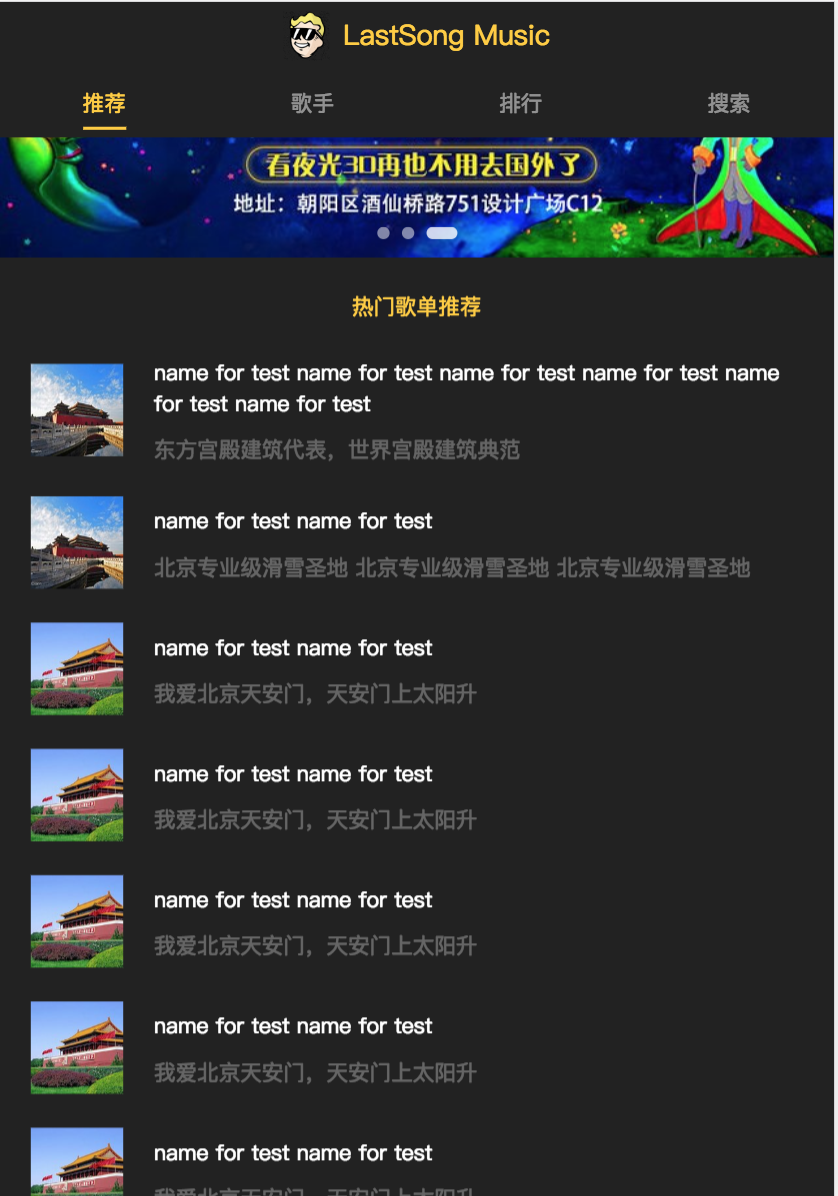
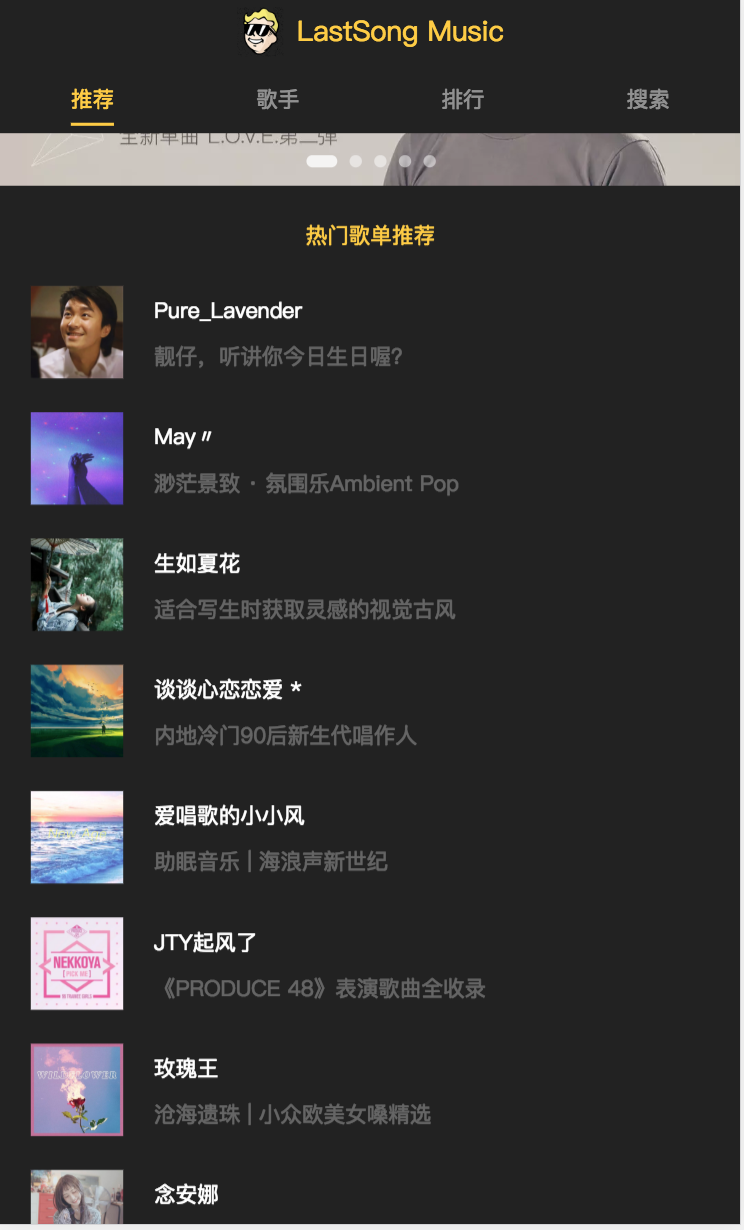
updated

Changed region(s): [[0.0, 0.0, 1.0, 1.0]]

diff --git a/src/components/recommend/recommend.vue b/src/components/recommend/recommend.vue
@@ -2,114 +2,32 @@
   <div class="recommend">
     <scroll ref="scroll" class="recommend-content" :data="discList">
       <div>
-        <div class="slider-wrapper">
+        <div v-if="recommends.length" class="slider-wrapper" ref="sliderWrapper">
           <slider>
-            <div>
-              <a href="http://img1.qunarzz.com/piao/fusion/1801/1a/94428c6dea109402.jpg_640x200_2cf590d8.jpg">
-                <img @load="loadImage" src="http://img1.qunarzz.com/piao/fusion/1801/1a/94428c6dea109402.jpg_640x200_2cf590d8.jpg"/>
-              </a>
-            </div>
-            <div>
-              <a href="http://img1.qunarzz.com/piao/fusion/1802/42/7c92b9a381e46402.jpg_640x200_1cdce2a4.jpg">
-                <img @load="loadImage" src="http://img1.qunarzz.com/piao/fusion/1802/42/7c92b9a381e46402.jpg_640x200_1cdce2a4.jpg"/>
-              </a>
-            </div>
-            <div>
-              <a href="http://img1.qunarzz.com/piao/fusion/1802/51/e78f936a5b404102.jpg_640x200_c14f0b3a.jpg">
-                <img @load="loadImage" src="http://img1.qunarzz.com/piao/fusion/1802/51/e78f936a5b404102.jpg_640x200_c14f0b3a.jpg"/>
+            <div v-for="item in recommends" :key="item.id">
+              <a :href="item.linkUrl">
+                <img @load="loadImage" :src="item.picUrl">
               </a>
             </div>
           </slider>
         </div>
-
         <div class="recommend-list">
           <h1 class="list-title">热门歌单推荐</h1>
           <ul>
-            <li class="item">
+            <li v-for="item in discList" class="item" :key="item.dissid">
               <div class="icon">
-                <img @load="loadImage" width="60" height="60" src="http://img1.qunarzz.com/sight/p0/1409/19/adca619faaab0898245dc4ec482b5722.jpg_140x140_80f63803.jpg"/>
+                <img width="60" height="60" :src="item.imgurl">
               </div>
               <div class="text">
-                <h2 class="name">name for test name for test name for test name for test name for test name for test</h2>
-                <p class="desc">东方宫殿建筑代表，世界宫殿建筑典范</p>
-              </div>
-            </li>
-            <li class="item">
-              <div class="icon">
-                <img @load="loadImage" width="60" height="60" src="http://img1.qunarzz.com/sight/p0/1409/19/adca619faaab0898245dc4ec482b5722.jpg_140x140_80f63803.jpg"/>
-              </div>
-              <div class="text">
-                <h2 class="name">name for test name for test</h2>
-                <p class="desc">北京专业级滑雪圣地 北京专业级滑雪圣地 北京专业级滑雪圣地</p>
-              </div>
-            </li>
-            <li class="item">
-              <div class="icon">
-                <img @load="loadImage" width="60" height="60" src="http://img1.qunarzz.com/sight/p0/1501/f4/f467729126949c3a.water.jpg_140x140_ef235b1c.jpg"/>
-              </div>
-              <div class="text">
-                <h2 class="name">name for test name for test</h2>
-                <p class="desc">我爱北京天安门，天安门上太阳升</p>
-              </div>
-            </li>
-            <li class="item">
-              <div class="icon">
-                <img @load="loadImage" width="60" height="60" src="http://img1.qunarzz.com/sight/p0/1501/f4/f467729126949c3a.water.jpg_140x140_ef235b1c.jpg"/>
-              </div>
-              <div class="text">
-                <h2 class="name">name for test name for test</h2>
-                <p class="desc">我爱北京天安门，天安门上太阳升</p>
-              </div>
-            </li>
-            <li class="item">
-              <div class="icon">
-                <img @load="loadImage" width="60" height="60" src="http://img1.qunarzz.com/sight/p0/1501/f4/f467729126949c3a.water.jpg_140x140_ef235b1c.jpg"/>
-              </div>
-              <div class="text">
-                <h2 class="name">name for test name for test</h2>
-                <p class="desc">我爱北京天安门，天安门上太阳升</p>
-              </div>
-            </li>
-            <li class="item">
-              <div class="icon">
-                <img @load="loadImage" width="60" height="60" src="http://img1.qunarzz.com/sight/p0/1501/f4/f467729126949c3a.water.jpg_140x140_ef235b1c.jpg"/>
-              </div>
-              <div class="text">
-                <h2 class="name">name for test name for test</h2>
-                <p class="desc">我爱北京天安门，天安门上太阳升</p>
-              </div>
-            </li>
-            <li class="item">
-              <div class="icon">
-                <img @load="loadImage" width="60" height="60" src="http://img1.qunarzz.com/sight/p0/1501/f4/f467729126949c3a.water.jpg_140x140_ef235b1c.jpg"/>
-              </div>
-              <div class="text">
-                <h2 class="name">name for test name for test</h2>
-                <p class="desc">我爱北京天安门，天安门上太阳升</p>
-              </div>
-            </li>
-            <li class="item">
-              <div class="icon">
-                <img @load="loadImage" width="60" height="60" src="http://img1.qunarzz.com/sight/p0/1501/f4/f467729126949c3a.water.jpg_140x140_ef235b1c.jpg"/>
-              </div>
-              <div class="text">
-                <h2 class="name">name for test name for test</h2>
-                <p class="desc">我爱北京天安门，天安门上太阳升</p>
-              </div>
-            </li>
-            <li class="item">
-              <div class="icon">
-                <img width="60" @load="loadImage" height="60" src="http://img1.qunarzz.com/sight/p0/1501/f4/f467729126949c3a.water.jpg_140x140_ef235b1c.jpg"/>
-              </div>
-              <div class="text">
-                <h2 class="name">name for test name for test</h2>
-                <p class="desc">我爱北京天安门，天安门上太阳升</p>
+                <h2 class="name" v-html="item.creator.name"></h2>
+                <p class="desc" v-html="item.dissname"></p>
               </div>
             </li>
           </ul>
         </div>
       </div>
     </scroll>
+    <router-view></router-view>
   </div>
 </template>
 

diff --git a/src/api/recommend.js b/src/api/recommend.js
@@ -31,6 +31,6 @@ export function getDiscList() {
   return axios.get(url, {
     params: data
   }).then((res) => {
-    return Promise.reslove(res.data)
+    return Promise.resolve(res.data)
   })
 }
